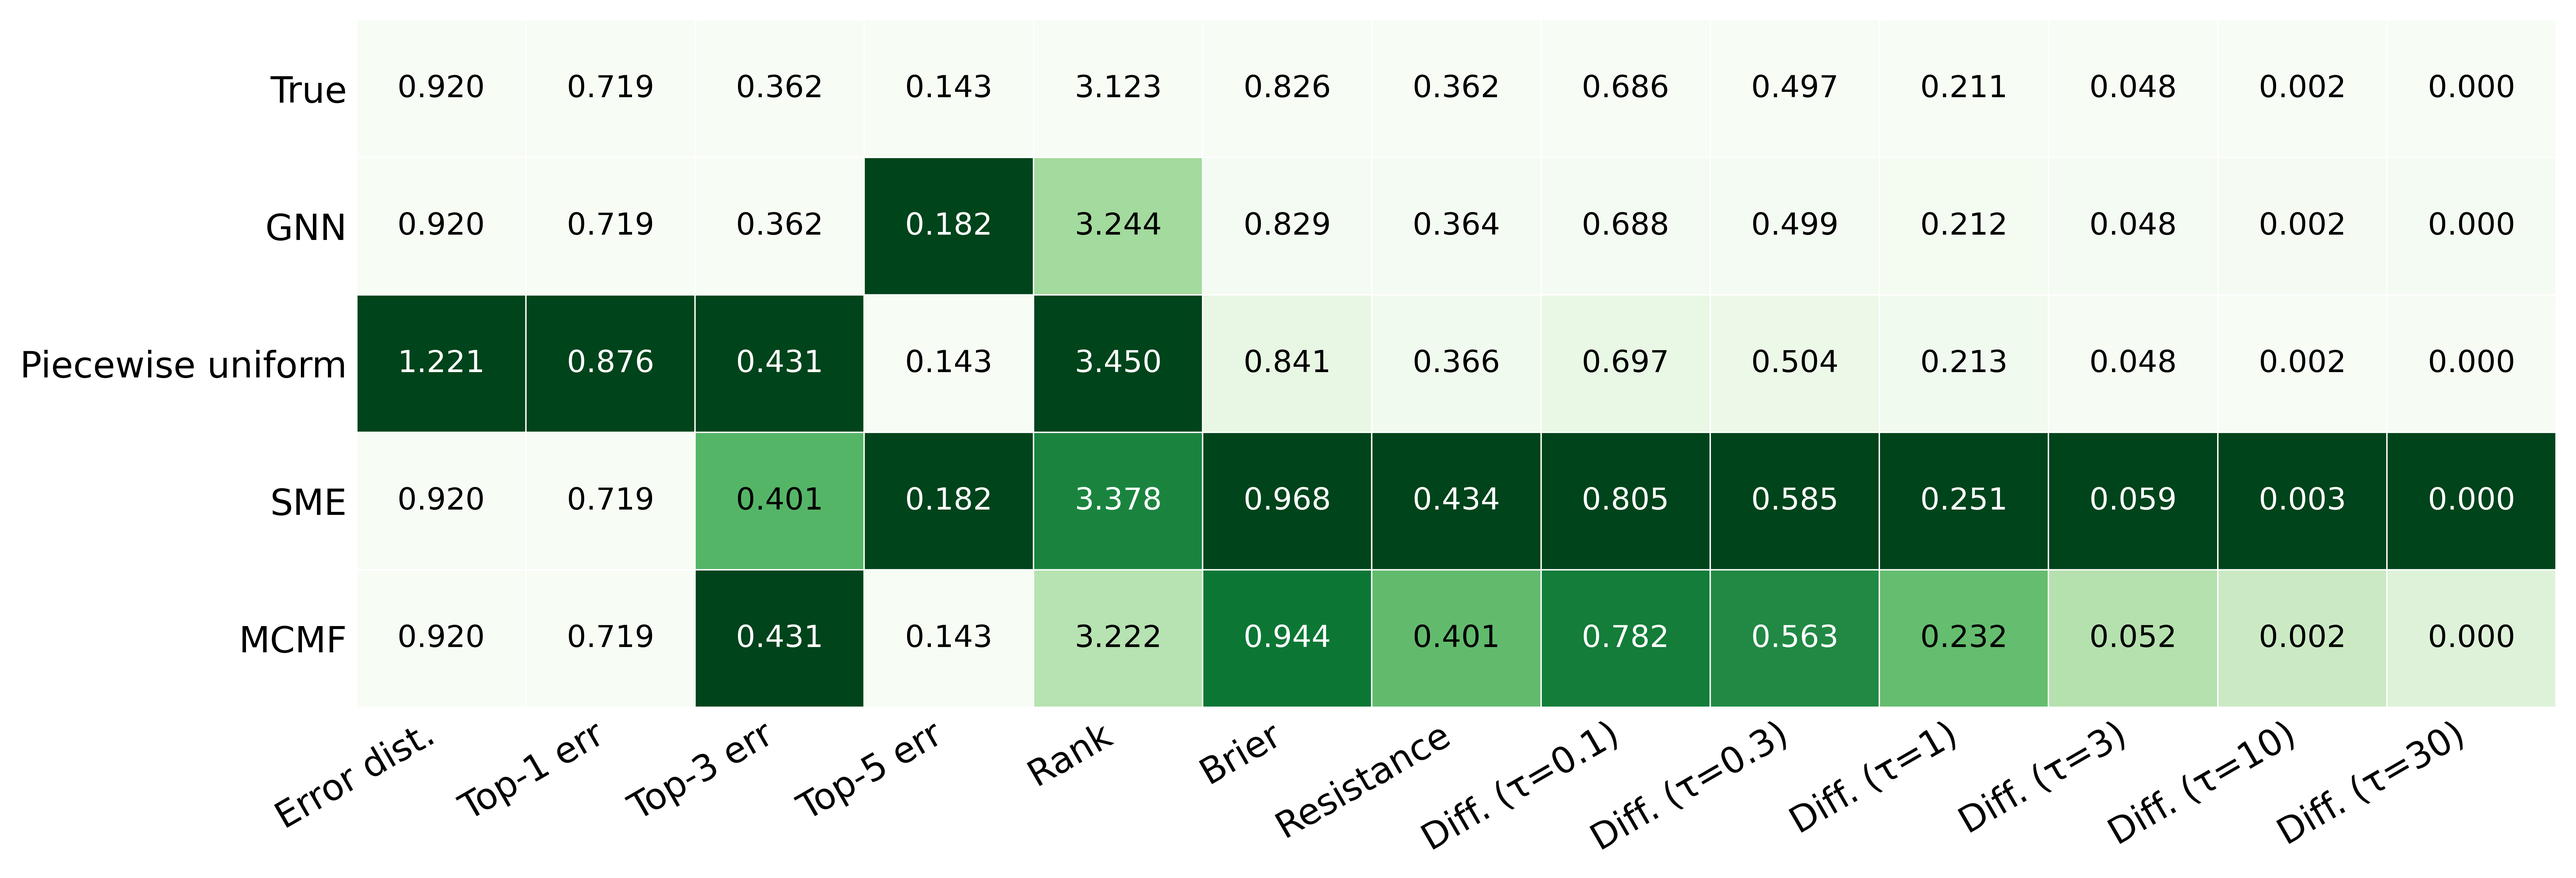
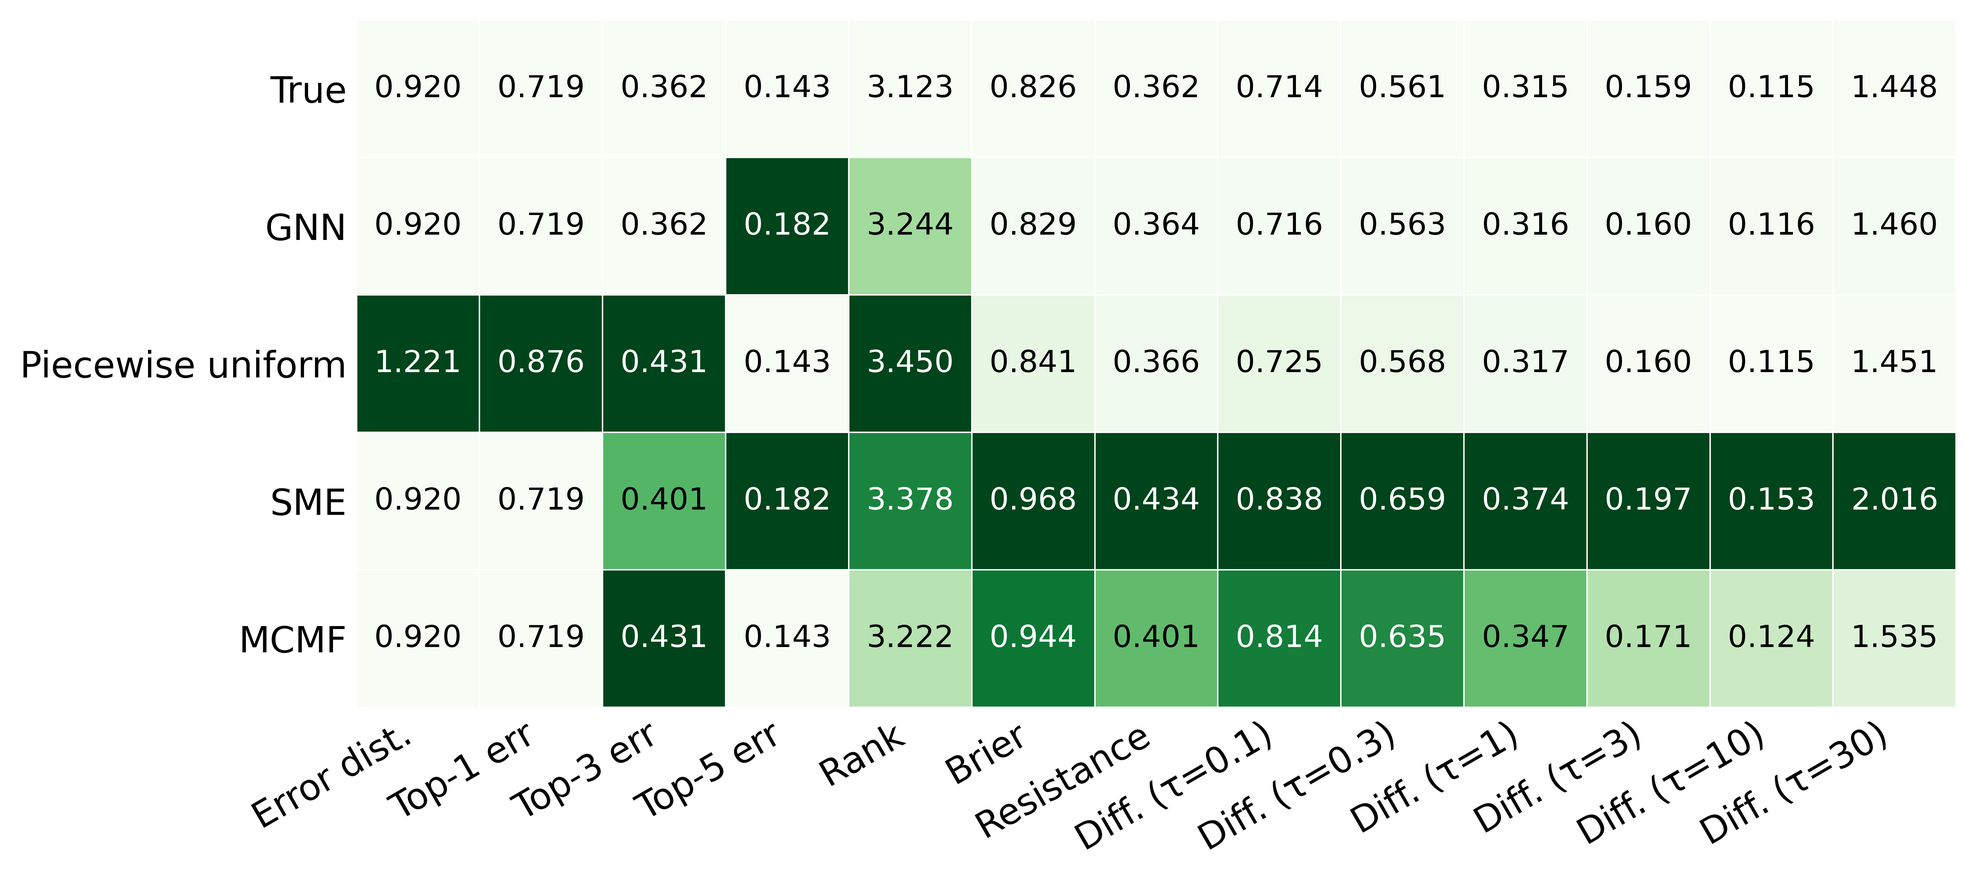
update score table

diff --git a/examples/karate/analysis/score_table.py b/examples/karate/analysis/score_table.py
@@ -4,7 +4,7 @@ Compute expected scores under the true distribution and produce the heatmap tabl
 For each model, computes E_{i~q}[S(p_model, i)] = sum_i q_i * S(p_model, i)
 where q = true_prob from the snapshot CSV.
 
-Scores used (matching the paper):
+Scores used, as in the paper:
   - error_distance, top_1_err, top_3_err, top_5_err, rank
   - brier, resistance
   - diffusion at tau = 0.1, 0.3, 1, 3, 10, 30
@@ -87,12 +87,14 @@ def compute_expected_scores(G, df, model_columns):
     """
     A = nx.to_numpy_array(G, weight=None)
     scorer = GraphScorer(A)
+    # regularisation parameter
+    mu = 0.8  # pragmatic choice: value that gives values of similar order of magnitude for large and small tau
     node_order = list(G.nodes())
     N = len(node_order)
 
     df_ord = df.reindex(node_order).fillna(0.0)
     true_prob = df_ord["true_prob"].values  # q vector
-    true_nodes = np.arange(N)              # score against every node
+    true_nodes = np.arange(N) # score against every node
 
     results = {}
     for model in model_columns:
@@ -110,7 +112,7 @@ def compute_expected_scores(G, df, model_columns):
         }
         for tau in DIFFUSION_TAUS:
             key = f"diff_{str(tau).replace('.', '')}"
-            scores[key] = scorer.diffusion_score(P, true_nodes, tau=tau)
+            scores[key] = scorer.diffusion_score(P, true_nodes, tau=tau, mu=mu)
 
         # expected score under true distribution q
         results[model] = {k: float(np.dot(true_prob, v)) for k, v in scores.items()}
@@ -129,7 +131,7 @@ def plot_heatmap(df, snapshot_name):
     row_labels = [MODEL_DISPLAY.get(r, r) for r in df.index]
 
     # fixed total width like ImageNet table, height scales with number of rows
-    fig, ax = plt.subplots(figsize=(13, n_rows * 0.9))
+    fig, ax = plt.subplots(figsize=(10, n_rows * 0.9))
 
     for i in range(n_rows):
         for j in range(n_cols):
